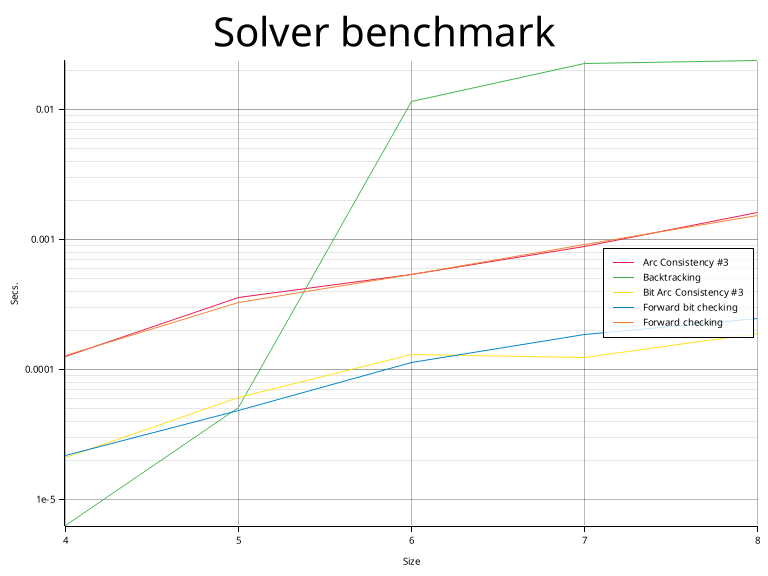
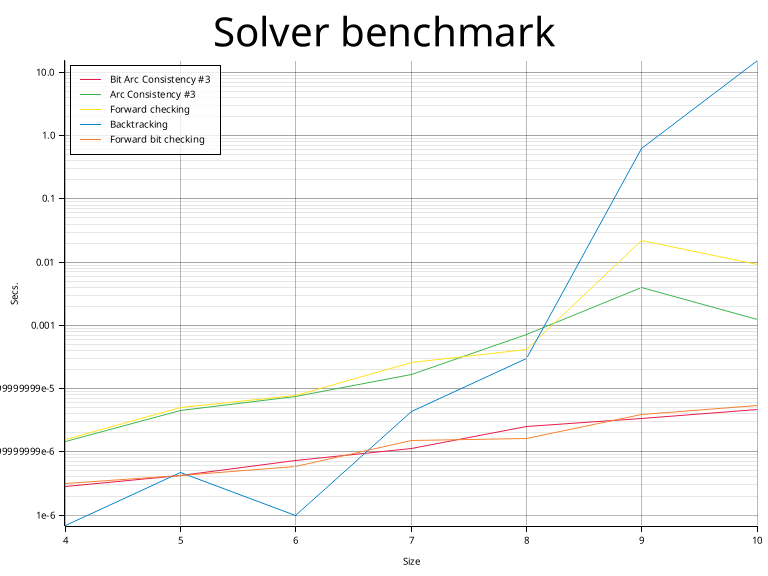
Add implementation to doc

Changed region(s): [[0.0, 0.3438, 1.0, 0.9062], [0.0625, 0.0938, 1.0, 0.3125], [0.0625, 0.125, 0.0938, 0.1562]]

diff --git a/doc/projekt-01-kapitoly-chapters.tex b/doc/projekt-01-kapitoly-chapters.tex
@@ -336,6 +336,158 @@ Aplikace je implementována v programovacím jazyce Rust za využití knihovny
 \texttt{termint}, která zjednodušuje tvorbu uživatelského rozhraní v terminálu.
 Vývoj probíhal na operačním systému Linux.
 
+\section{Spuštění aplikace}
+
+Při spouštění aplikace si může uživatel pomocí argumentů přizpůsobit nastavení
+hry, například zvolit algoritmus, který bude Futoshiki řešit, velikost mřížky
+nebo spustit benchmark.
+
+\subsection*{Argumenty pro spuštění hry}
+\begin{itemize}
+    \item -s, --size [číslo]: Velikost mřížky (výchozí je 4)
+    \item --solver [typ]: Algoritmus pro řešení Futoshiki (více popsáno
+        později)
+    \item -t, --theme [téma]: Téma aplikace
+    \begin{itemize}
+        \item light: Světlé téma
+        \item dark: Tmavé téma
+    \end{itemize}
+\end{itemize}
+
+\subsection*{Argumenty pro benchmark}
+V případě že by chtěl uživatel spustit benchmark, musí využít argument
+\texttt{bench}, za kterým mohou následovat tyto argumenty:
+\begin{itemize}
+    \item -s, --size [číslo]: Velikost testované mřížky (lze zadat vícekrát)
+    \item --solver [typ]: Testovaný algoritmus (lze zadat vícekrát)
+    \item -r, --repeats [číslo]: Počet opakování testu
+    \item -b, --boards [číslo]: Počet testovaných mřížek
+\end{itemize}
+
+\subsection*{Dostupné typy algoritmů}
+\begin{itemize}
+    \item bt, backtract, backtracking: Backtracking
+    \item fc, forward-check, forward-checking: Forward Checking
+    \item fcb, forward-check-bit, forward-checking-bit: Forward Checking s
+        bitovými operacemi
+    \item ac3, arc-cons3, arc-consistency3: Arc Consistency \#3
+    \item ac3b, arc-cons3-bit, arc-consistency3-bit: Arc Consistency \#3 s
+        bitovými operacemi
+\end{itemize}
+
+\section{Vzhled a možnosti aplikace}
+
+Po spuštění hry se zobrazí mřížka Futoshiki, která má čtvercový tvar s předem
+nastavenou velikostí. V této mřížce je jedno z~polí zvýrazněno, to značí právě
+označené pole. Pro změnu označeného pole lze využít klávesy šipek nebo klávesy
+\texttt{hjkl}, které využívá textový editor \texttt{Vim} pro navigaci v textu.
+Aplikaci lze kdykoliv ukončit stiskem kláves \texttt{Q} a~\texttt{Esc}.
+Aplikace obsahuje tři obrazovky:
+\begin{enumerate}
+    \item Vytváření mřížky
+    \item Řešení mřížky
+    \item Změna řešícího algoritmu
+\end{enumerate}
+
+\begin{figure}[hbt]
+	\centering
+	\includegraphics[width=0.4\textwidth]{obrazky-figures/futoshiki.png}
+	\caption{Vzhled aplikace po spuštění hry se světlým režimem}
+	\label{futoshiki}
+\end{figure}
+
+\subsection{Vytváření mřížky}
+
+Tento řežim umožňuje uživateli vytvořit vlastní mřížku, kterou lze následně
+nechat složit jedním z algoritmů.
+
+\subsection*{Funkcionalita}
+\begin{enumerate}
+    \item Přidání hodnoty:
+    \begin{itemize}
+        \item Napsáním číselné hodnoty na klávesnici se hodnota přidá do
+            označeného pole.
+        \item Pokud hodnota přesáhne maximální povolenou hodnotu, odstraní
+            se číslice z vyšších řádů.
+    \end{itemize}
+    \item Smazání hodnoty:
+    \begin{itemize}
+        \item Hodnotu lze smazat zapsáním čísla nula nebo klávesou
+            \texttt{Delete}.
+    \end{itemize}
+    \item Přidání nerovnosti:
+    \begin{itemize}
+        \item Právě označené pole bude prvním prvek nerovnosti.
+        \item Stisknutím klávesy \texttt{>} (větší) nebo \texttt{<} (menší) se
+            vybere typ nerovnosti.
+        \item Zvolením sousedního pole se nastaví druhý prvek nerovnosti
+            a~přidá se samotná nerovnost.
+    \end{itemize}
+    \item Smazání nerovnosti:
+    \begin{itemize}
+        \item Postup je stejný jako při přidávání nerovnosti, pouze místo
+        kláves \texttt{>} nebo \texttt{<} se použije klávesa \texttt{C}.
+    \end{itemize}
+\end{enumerate}
+
+\subsection*{Spuštění řešení}
+
+Po dokončení vytváření mřížky lze stisknutím klávesy \texttt{S} aktivovat
+aktuálně zvolený algoritmus, který následně mřížku vyřeší. V případě úspěchu
+se do mřížky doplní zbývající hodnoty a vypíše se zpráva, že mřížka byla
+složena.
+
+\subsection{Řešení mřížky}
+
+V tomto režimu může uživatel mřížku manuálně řešit.
+
+\subsection*{Funkcionalita}
+\begin{enumerate}
+    \item Generování mřížky:
+    \begin{itemize}
+        \item Stisknutím klávesy \texttt{Enter} se vygeneruje náhodná mřížka.
+    \end{itemize}
+    \item Řešení mřížky:
+    \begin{itemize}
+        \item Hodnoty lze do polí zapisovat stejným způsobem jako při vytváření
+            mřížky.
+        \item Nelze přepisovat hodnoty, které byly vygenerovány a nelze měnit
+            nerovnosti.
+    \end{itemize}
+\end{enumerate}
+
+\subsection*{Dokončení řešení}
+
+Pokud je mřížka vyřešena správně, zobrazí se zpráva o úspěšném složení. Pokuď
+uživateli mřížka nejde složit, lze opět využít nastaveného algoritmu stisknutím
+klávesy \texttt{S}.
+
+\subsection{Změna řešícího algoritmu}
+
+Uživatel má také možnost algorimus použitý pro řešení Futoshiki změnit, aniž
+by musel hry spouštět znovu za pomocí odpovídajících argumentů
+
+\begin{enumerate}
+    \item Přechod mezi stránkou výběru a stránkou hry:
+    \begin{itemize}
+        \item Stisknutím klávesy \texttt{Tab} se přepne stránka.
+        \item Pokud je aktuální stránka hry, přepne se na stránku výběru,
+            v~opačném případě se přejde na stránku hry.
+    \end{itemize}
+    \item Výběr algoritmu:
+    \begin{itemize}
+        \item Výběr lze měnit pomocí kláves šipka nahoru a šipka dolů.
+        \item Pro potvrzení výběru je třeba stisknout klávesu \texttt{Enter}.
+    \end{itemize}
+\end{enumerate}
+
+\begin{figure}[hbt]
+	\centering
+	\includegraphics[width=0.6\textwidth]{obrazky-figures/solvers.png}
+	\caption{Stránka výběru řešícího algoritmu}
+	\label{solvers}
+\end{figure}
+
 \chapter{Testování}
 
 Tato kapitola se zaměřuje na testování aplikace, především na ověření
@@ -392,10 +544,24 @@ usnadňuje porovnání efektivity algoritmů při řešení s různě velkými m
 	\includegraphics[width=1\textwidth]{obrazky-figures/benchmark.png}
 	\caption{
         Srovnání časové náročnosti všech algoritmů při různých velikostech
-        mřížky (4×4 až 8×8).
+        mřížky (4×4 až 10×10).
     }
 	\label{benchmark}
 \end{figure}
+
+\subsection{Zhodnocení}
+
+Jak ukazuje graf, menší mřížky zvládnou všechny algoritmy rychle. Backtracking
+je však nejrychlejší a to díky své jednoduchosti a absenci režie, jako je
+generování domén polí. S rostoucí velikostí mřížky však jeho výkon výrazně
+klesá, což je dáno jeho systematickým prohledáváním všech možností, kdy počet
+možností, které je třeba vyzkoušet, exponenciálně roste.
+
+Na větších mřížkách jsou rozdíly mezi algoritmy výraznější. Je také důležité
+zmínit, že osa \texttt{y} je logaritmická, což může zkreslovat reálně rozdíly.
+Backtracking je při velikosti 10×10 pomalejší přibližně o deset sekund než
+další nejpomalejší algoritmus. Nejlépe si vedly algoritmy Forward Checking
+a~Arc Consistency \#3 a~to v jejich implementace s~bitmapami.
 
 \chapter{Závěr}
 
